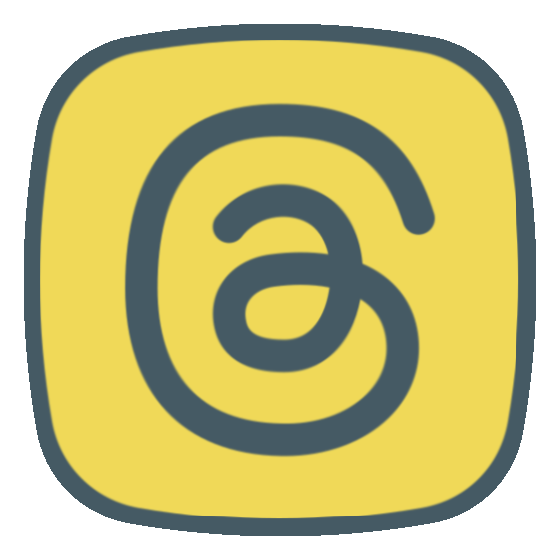
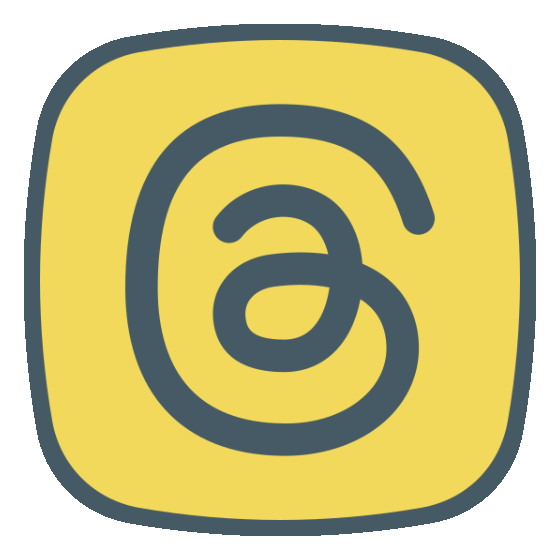
quick fix to button placement, changed color of threads button

diff --git a/mobile.css b/mobile.css
@@ -196,10 +196,6 @@ span.copyrightMobile {
     display: none;
 }
 
-#dayThreads {
-    display: none;
-}
-
 #dayBluesky {
     display: none;
 }
@@ -209,6 +205,10 @@ span.copyrightMobile {
 }
 
 #nightInsta {
+    display: none;
+}
+
+#nightThreads {
     display: none;
 }
 

diff --git a/desktop.css b/desktop.css
@@ -267,7 +267,7 @@ span.copyrightMobile {
     bottom: 0;
     top: 50%;
     left: 50%;
-    transform: translate(-940%, 80%);
+    transform: translate(-940%, 95%);
     z-index: 3;
 }
 
